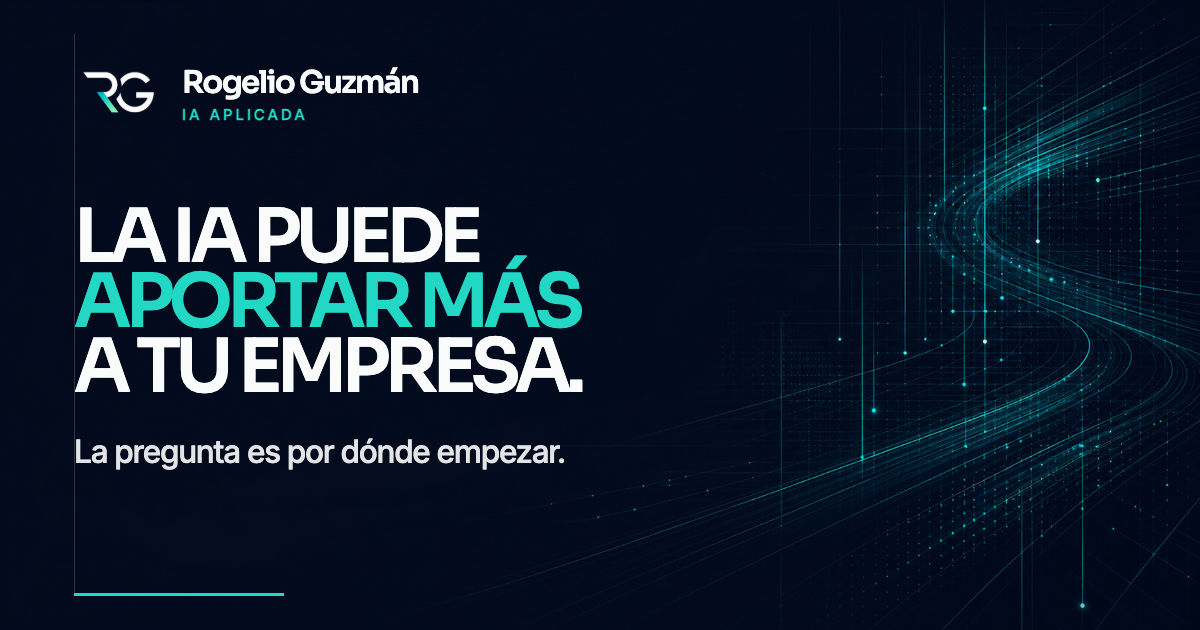
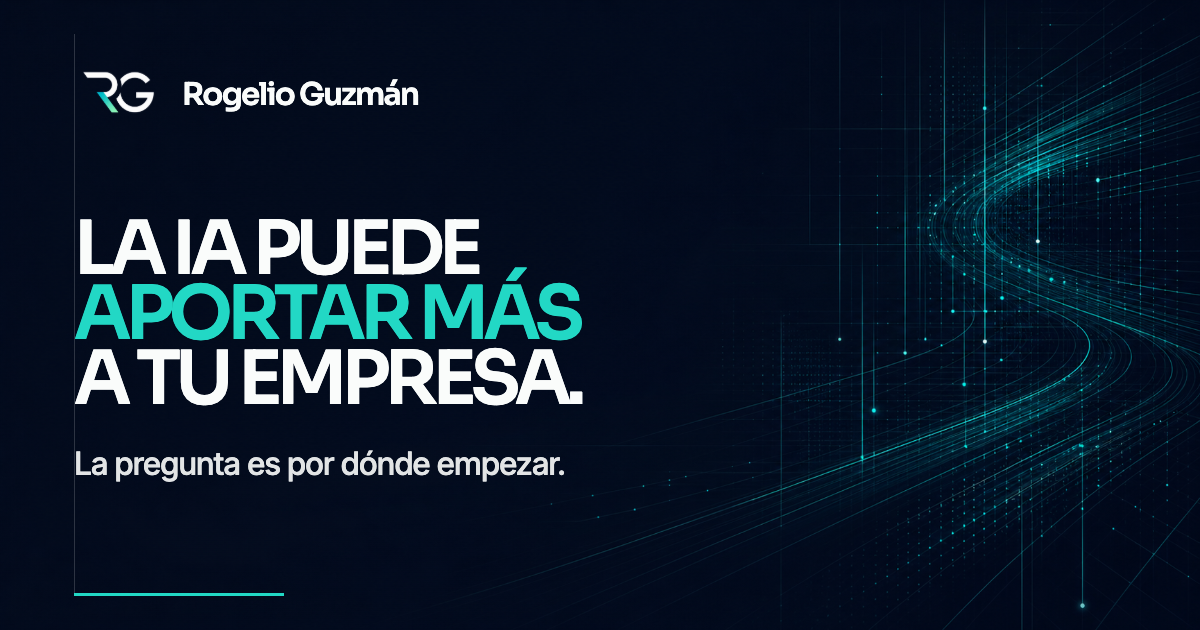
Simplify WhatsApp preview card

Changed region(s): [[0.0617, 0.3317, 0.4933, 0.6635], [0.0617, 0.6937, 0.4625, 0.7841], [0.1542, 0.0905, 0.37, 0.2111]]

diff --git a/index.html b/index.html
@@ -22,15 +22,15 @@
     <meta property="og:description" content="La IA puede aportar más a tu empresa. La pregunta es por dónde empezar." />
     <meta property="og:type" content="website" />
     <meta property="og:locale" content="es_MX" />
-    <meta property="og:url" content="https://rogelioguz.com/?share=ia-aplicada-20260724-v2" />
-    <meta property="og:image" content="https://rogelioguz.com/og-rg-ia-aplicada.png?v=20260724-v2" />
-    <meta property="og:image:secure_url" content="https://rogelioguz.com/og-rg-ia-aplicada.png?v=20260724-v2" />
+    <meta property="og:url" content="https://rogelioguz.com/?share=ia-aplicada-20260724-v3" />
+    <meta property="og:image" content="https://rogelioguz.com/og-rg-ia-aplicada.png?v=20260724-v3" />
+    <meta property="og:image:secure_url" content="https://rogelioguz.com/og-rg-ia-aplicada.png?v=20260724-v3" />
     <meta property="og:image:type" content="image/png" />
     <meta property="og:image:width" content="1200" />
     <meta property="og:image:height" content="630" />
     <meta property="og:image:alt" content="Rogelio Guzmán — La IA puede aportar más a tu empresa." />
     <meta name="twitter:card" content="summary_large_image" />
-    <meta name="twitter:image" content="https://rogelioguz.com/og-rg-ia-aplicada.png?v=20260724-v2" />
+    <meta name="twitter:image" content="https://rogelioguz.com/og-rg-ia-aplicada.png?v=20260724-v3" />
     <meta name="twitter:image:alt" content="Rogelio Guzmán — La IA puede aportar más a tu empresa." />
     <meta name="theme-color" content="#0A1128" />
     <script type="module" crossorigin src="/assets/index-D9aoDnrW.js"></script>
